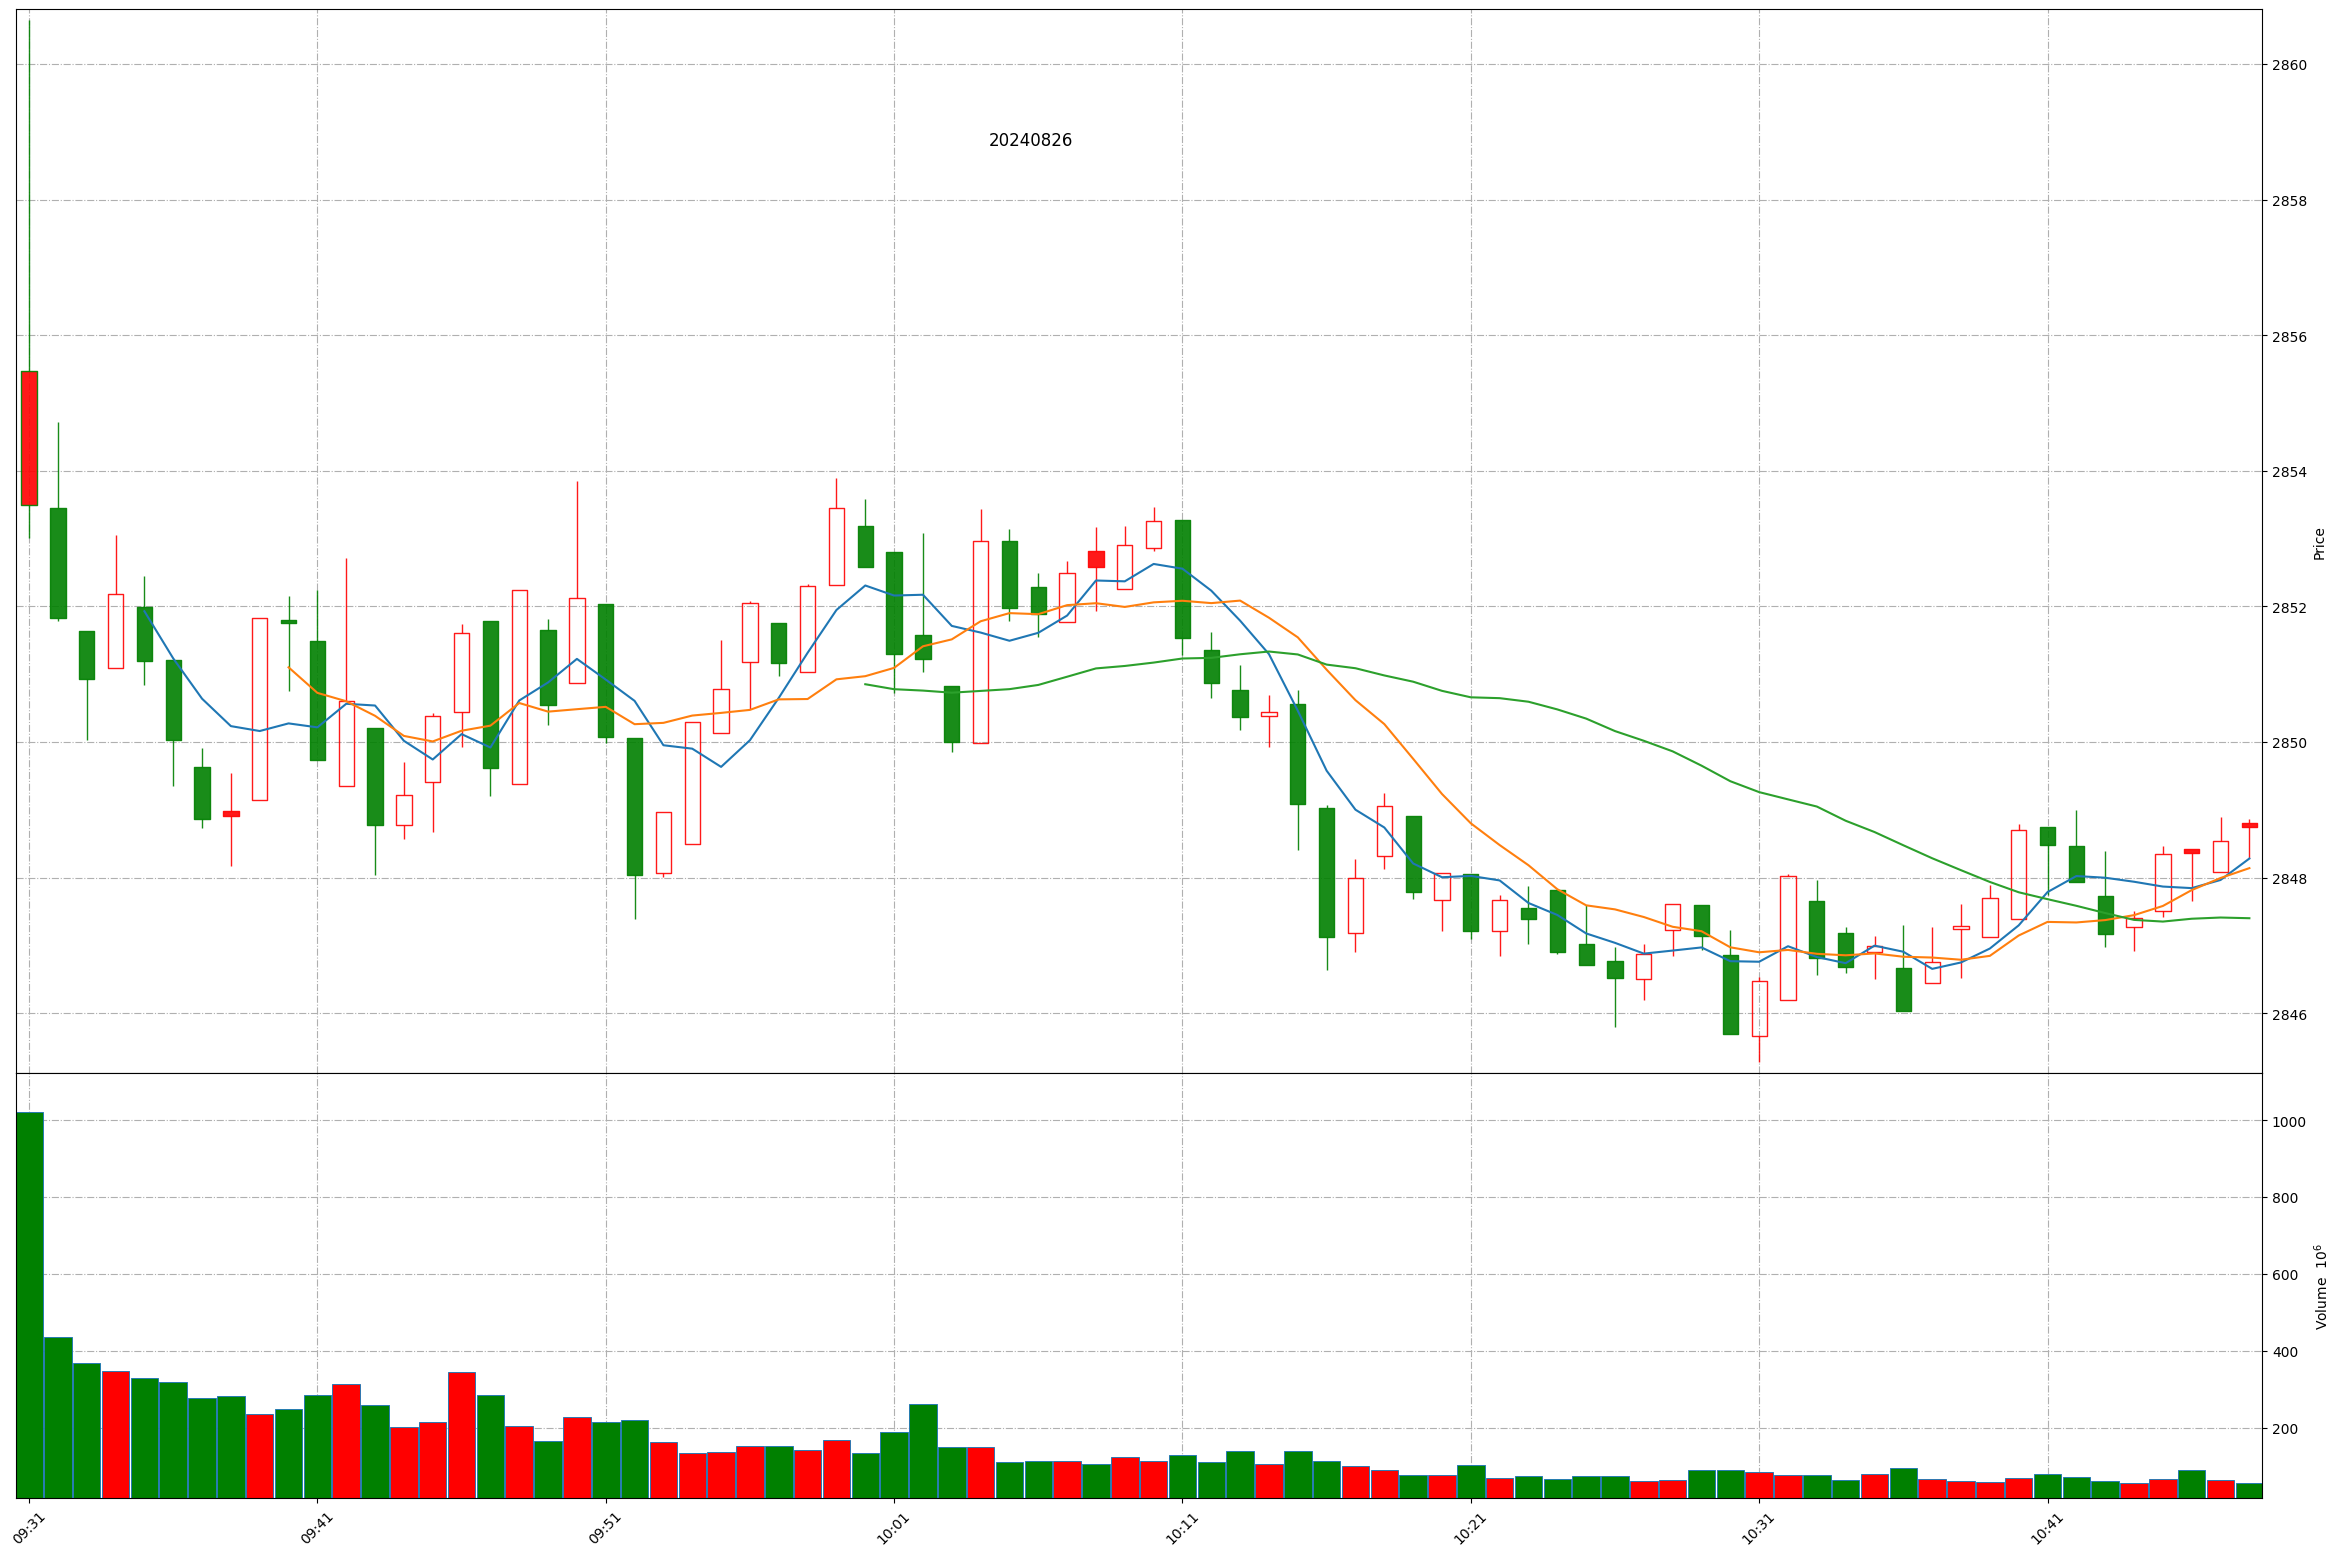
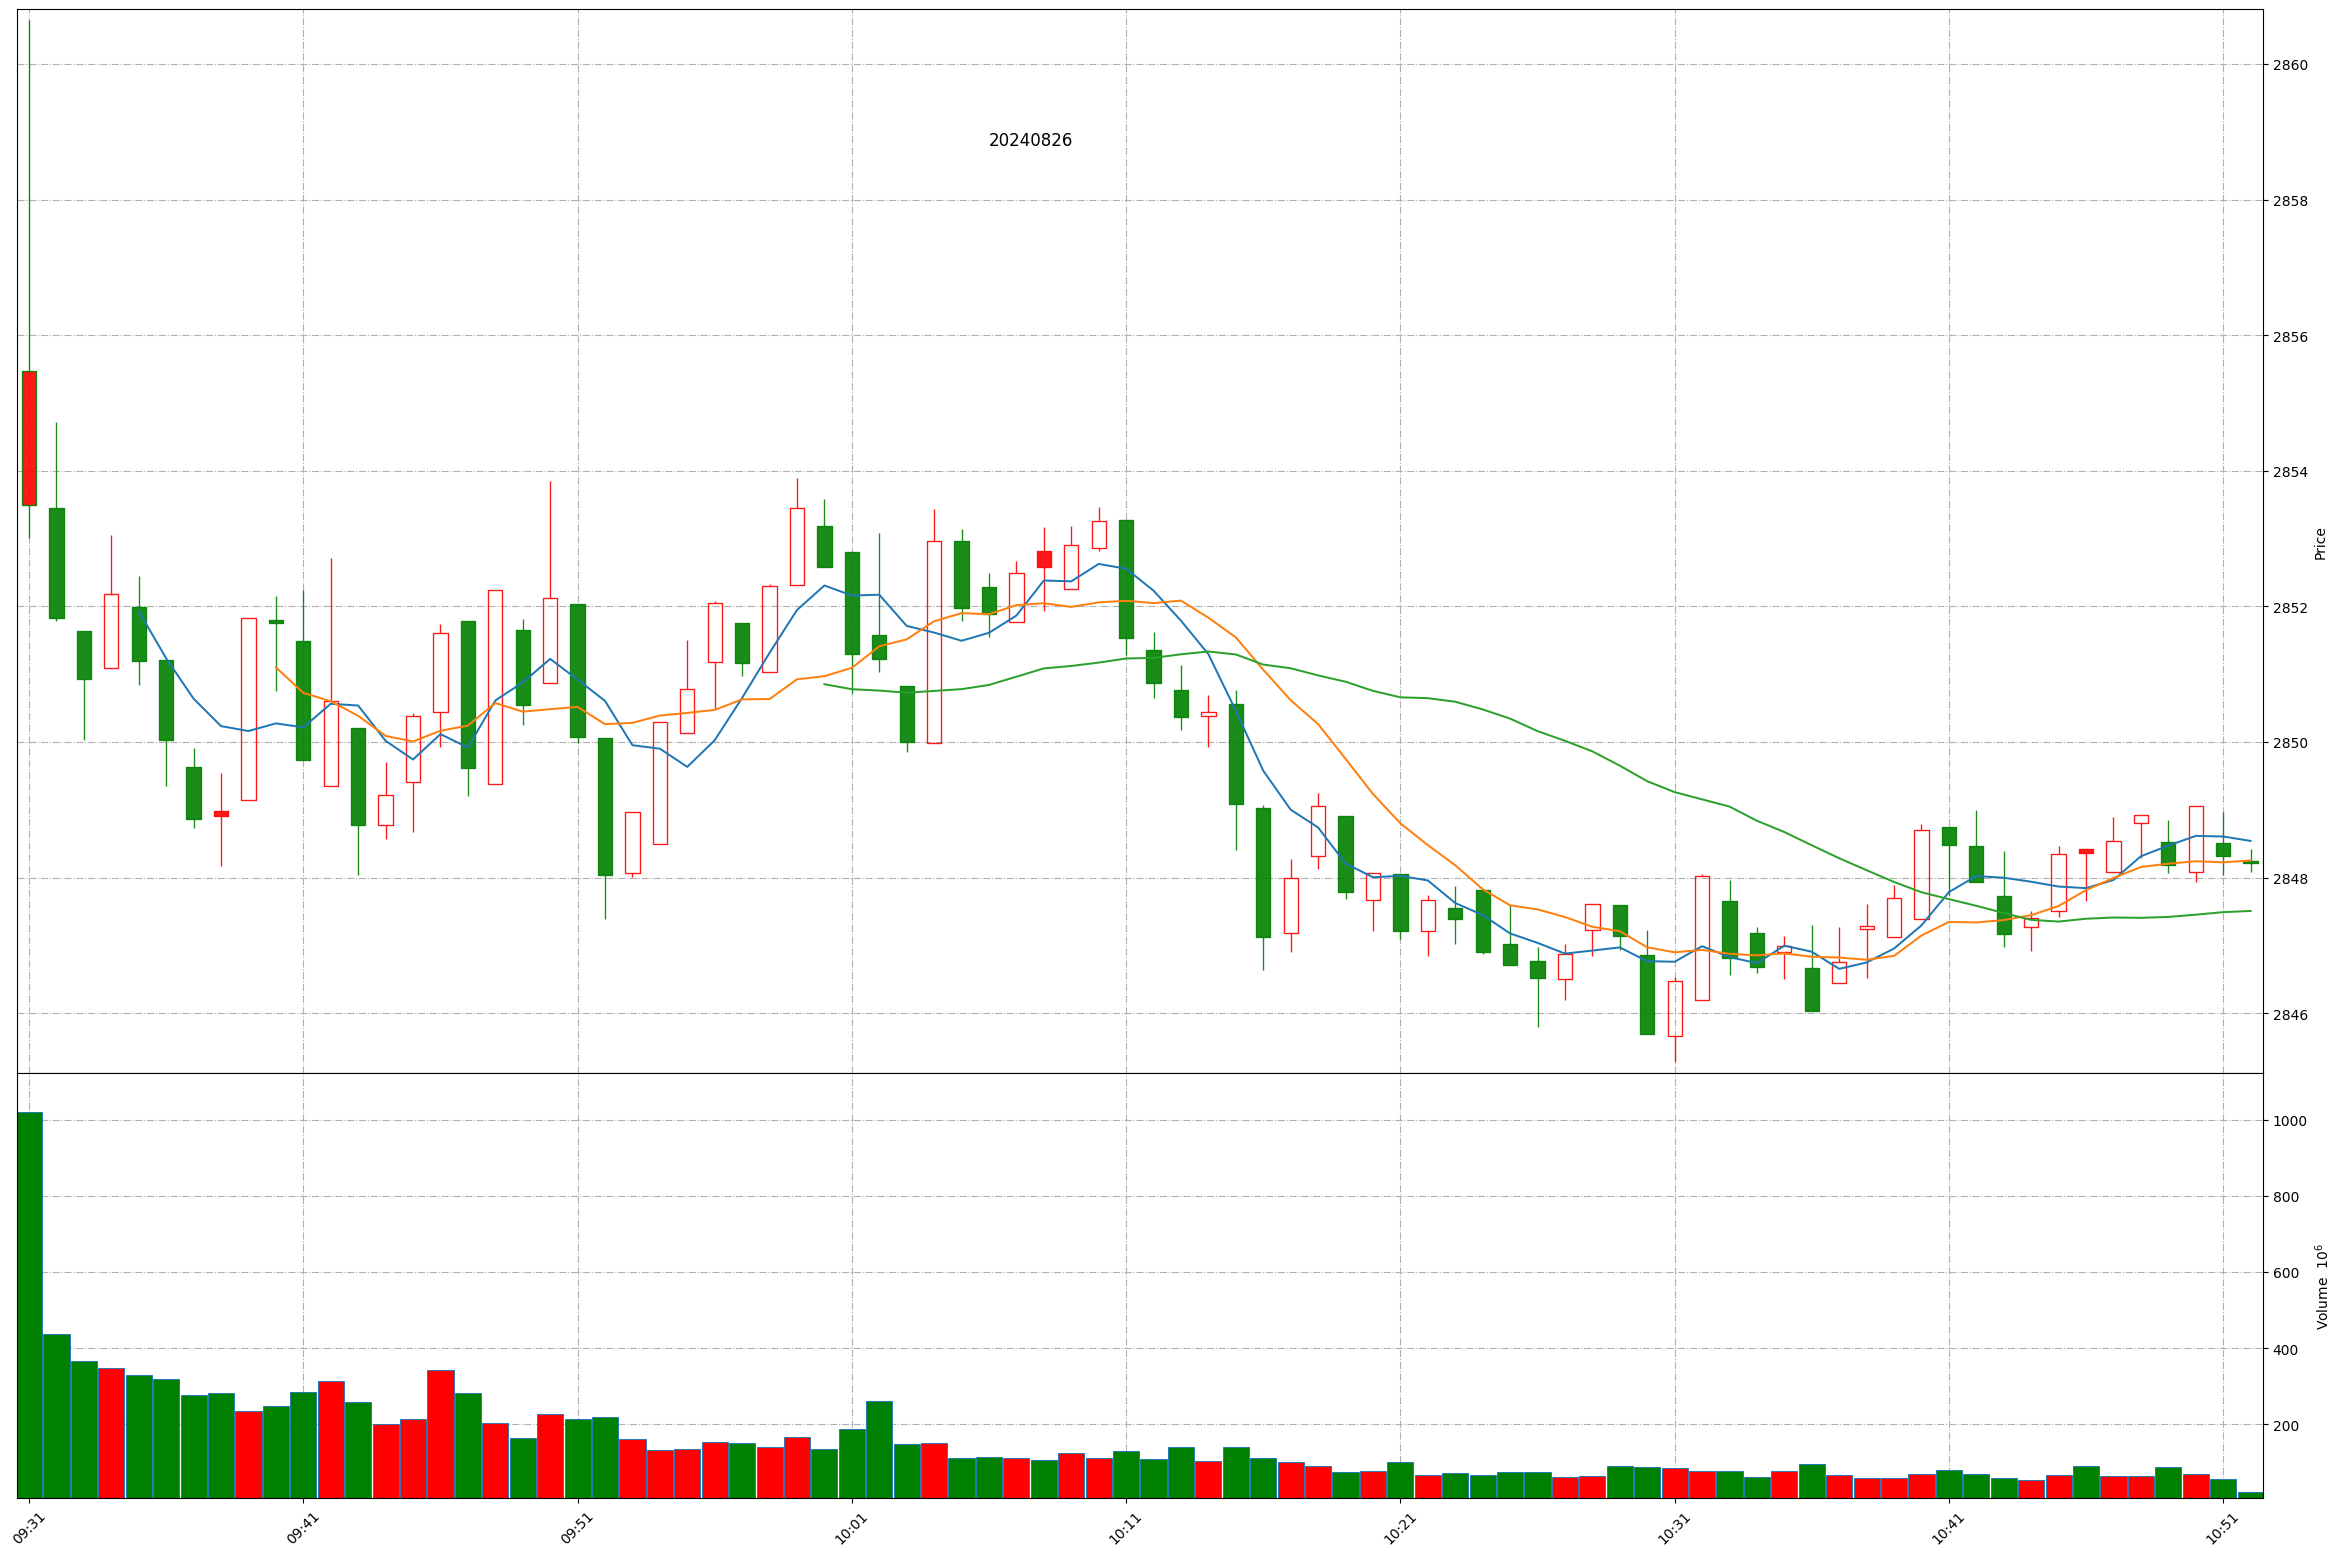
Github action update at 2024-08-26 10:51:43.

diff --git a/README.md b/README.md
@@ -1,11 +1,11 @@
 
 # Daily-A-share-market-quotes 每日 A 股指数（5min 更新）- 20240826
 
-### 上证指数 20240826 10:48
+### 上证指数 20240826 10:51
 ![](./fig/2024/8/20240826-sh000001.png)
 
-### 深证成指 20240826 10:48
+### 深证成指 20240826 10:51
 ![](./fig/2024/8/20240826-sz399001.png)
 
-### 北证50 20240826 10:48
+### 北证50 20240826 10:51
 ![](./fig/2024/8/20240826-bj899050.png)
